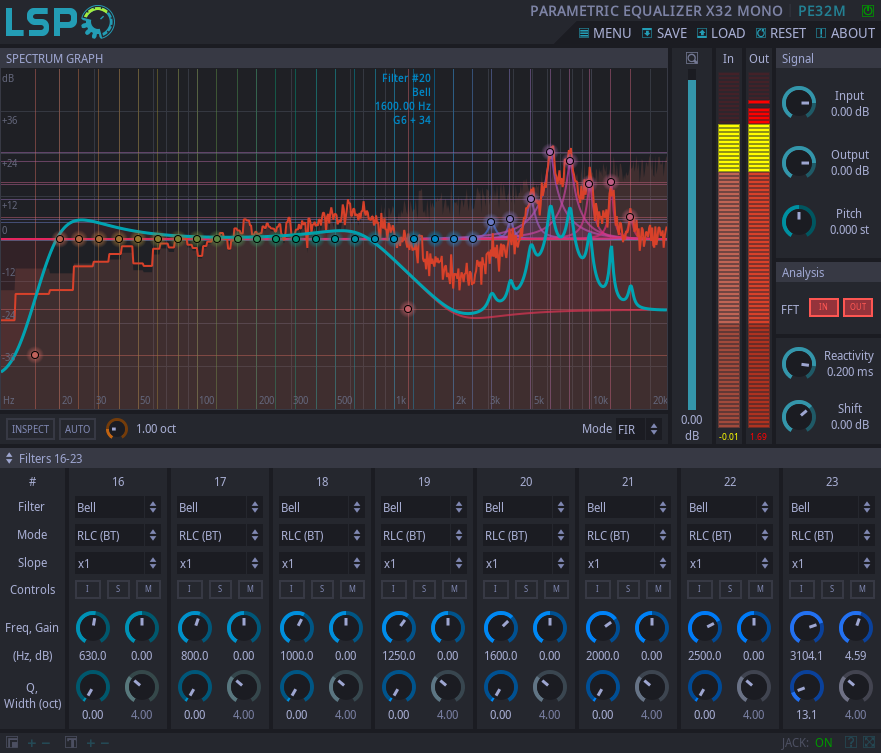
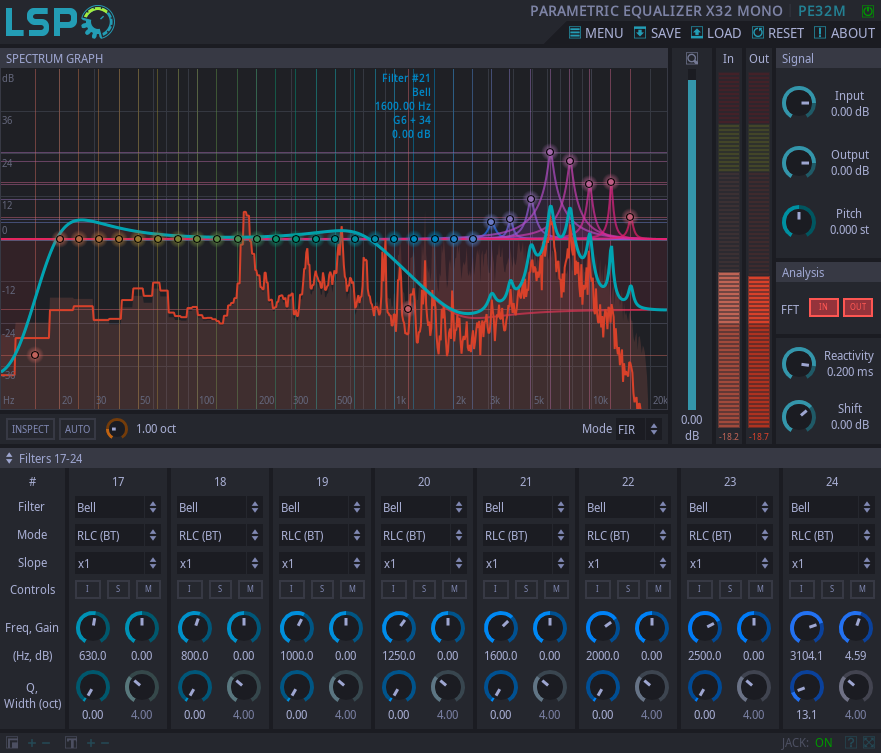
Changed the numbering of filters.
The numbering of filters starts with one, at the UI level.
Updated screenshots.

diff --git a/src/main/ui/para_equalizer.cpp b/src/main/ui/para_equalizer.cpp
@@ -637,7 +637,7 @@ namespace lsp
                     lc_string.set("lists.filters.index.right_id");
                 else
                     lc_string.set("lists.filters.index.filter_id");
-                lc_string.params()->set_int("id", filter_index % nFilters);
+                lc_string.params()->set_int("id", ((filter_index % nFilters)+1) );
                 lc_string.format(&text);
                 params.set_string("filter", &text);
                 lc_string.params()->clear();
@@ -1264,10 +1264,10 @@ namespace lsp
 
             // Set-up parameters
             size_t filter_type =
-                (freq <= 100.0f)    ? meta::para_equalizer_metadata::EQF_HIPASS     :
-                (freq <= 300.0f)    ? meta::para_equalizer_metadata::EQF_LOSHELF    :
-                (freq <= 7000.0f)   ? meta::para_equalizer_metadata::EQF_BELL       :
-                (freq <= 15000.0f)  ? meta::para_equalizer_metadata::EQF_HISHELF    :
+                (freq <= 20.0f)    ? meta::para_equalizer_metadata::EQF_HIPASS     :
+                (freq <= 40.0f)    ? meta::para_equalizer_metadata::EQF_LOSHELF    :
+                (freq <= 10000.0f)   ? meta::para_equalizer_metadata::EQF_BELL       :
+                (freq <= 20000.0f)  ? meta::para_equalizer_metadata::EQF_HISHELF    :
                                       meta::para_equalizer_metadata::EQF_LOPASS;
 
             float filter_quality = (filter_type == meta::para_equalizer_metadata::EQF_BELL) ? 2.0f : 0.5f;
